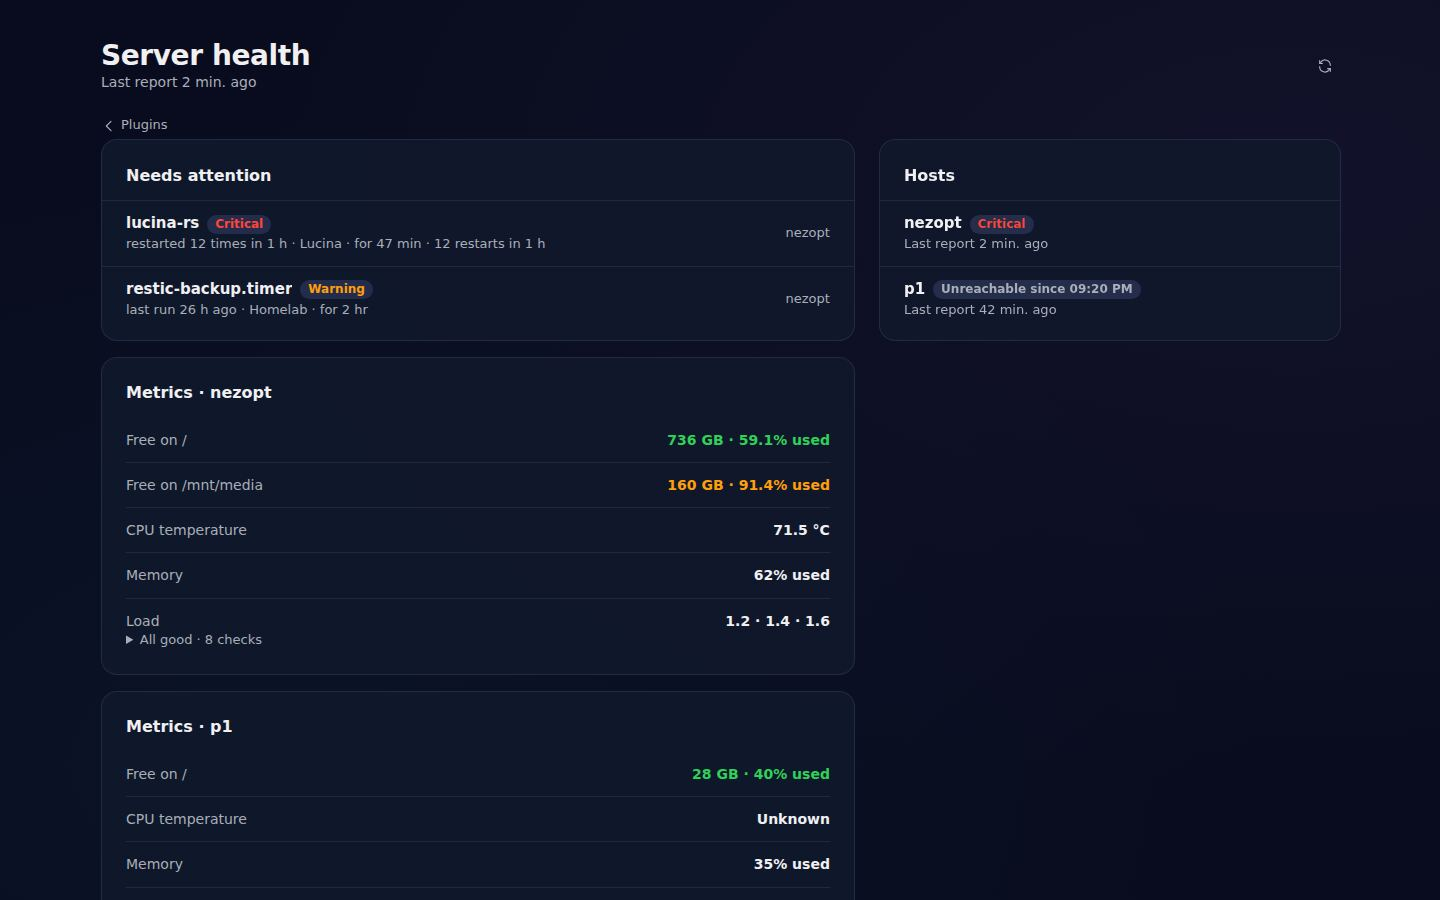
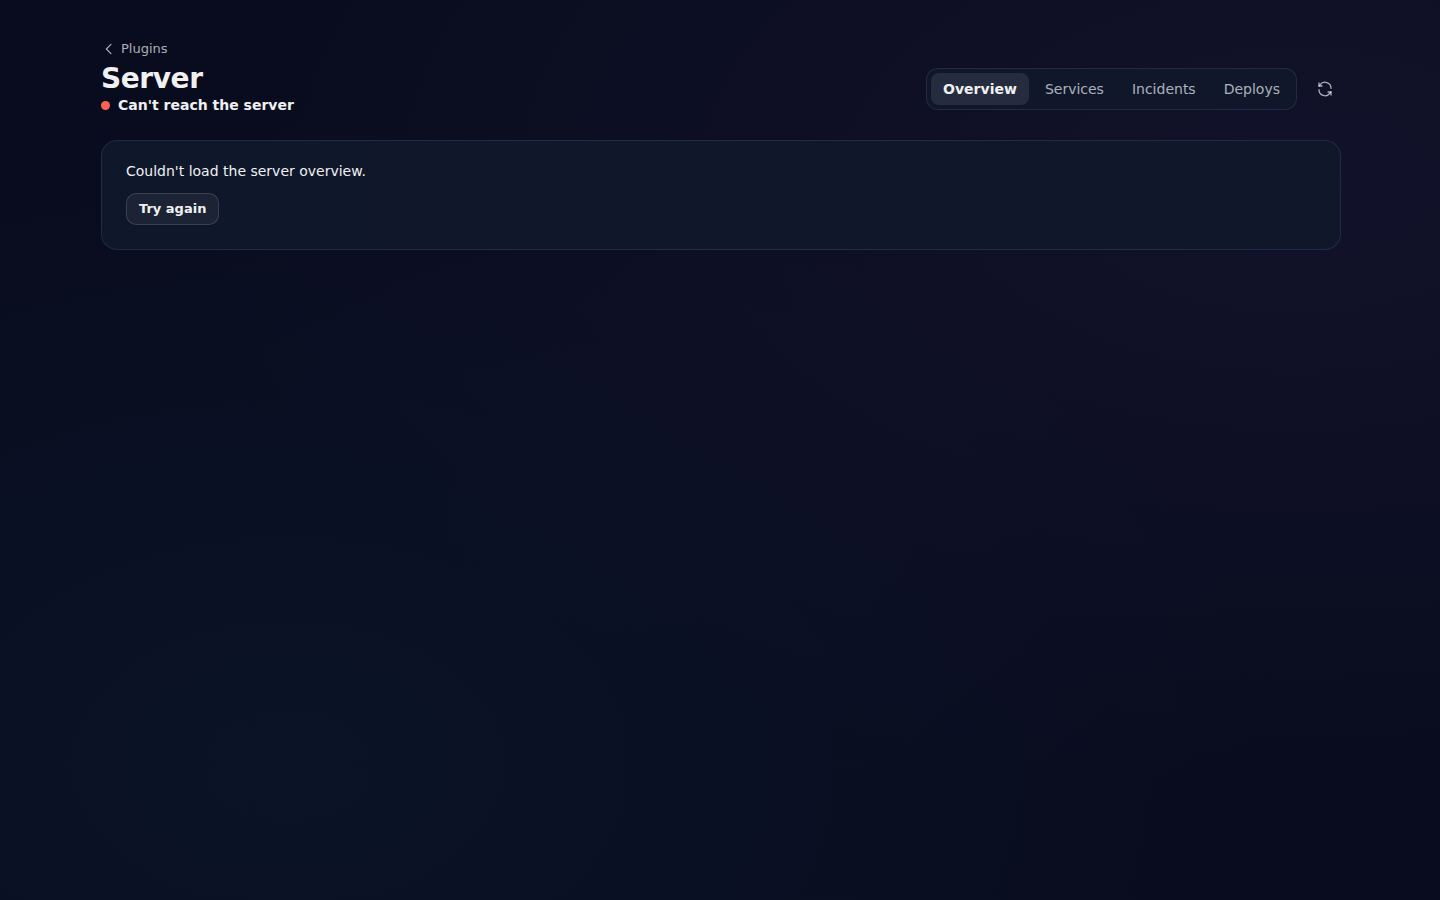
docs: page system entry for the new Server page (Overview, Services, Incidents, Deploys)

diff --git a/docs/design/page-system.md b/docs/design/page-system.md
@@ -177,7 +177,7 @@ Every other page (release b). Screenshots are named after the route in `page-sys
 | Plugins (`/plugins`) | Everything else | count · — · — | full tile grid | ![](page-system/plugins.jpg) |
 | Agents (`/agents/*`) | Coding agents | running / permission counts · Runs · Permissions · Schedules · Usage · Map · **New run** | split: runs · the agent | ![](page-system/agents.jpg) |
 | Lucina's computer (`/computer`) | Watch and take over her desktop | connection status · Desktop · Android · **Take over** | full viewer | ![](page-system/computer.jpg) |
-| Server health (`/server-health`) | Services, disks, alerts | last report, refresh icon · — · — | rail: needs attention, metrics · hosts | ![](page-system/server-health.jpg) |
+| Server (`/server-health`) | Hosts, services, incidents, deploys (owner ops dashboard, server-v2-web) | status line · Overview · Services · Incidents · Deploys, refresh icon · — | per section; host details in a sheet | ![](page-system/server-health.jpg) |
 | Secrets (`/secrets`) | Secret names by location | — · — · **Add secret** (sheet) | single | ![](page-system/secrets.jpg) |
 | Account (`/account`) | Settings of this device | device · General · Notification settings · Import · — | rail: settings cards · device, log out | ![](page-system/account.jpg) |
 | Notifications (`/notifications`) | What Lucina told you | unread count, Mark all read, settings icon · — · — | single: one card per day | ![](page-system/notifications.jpg) |
